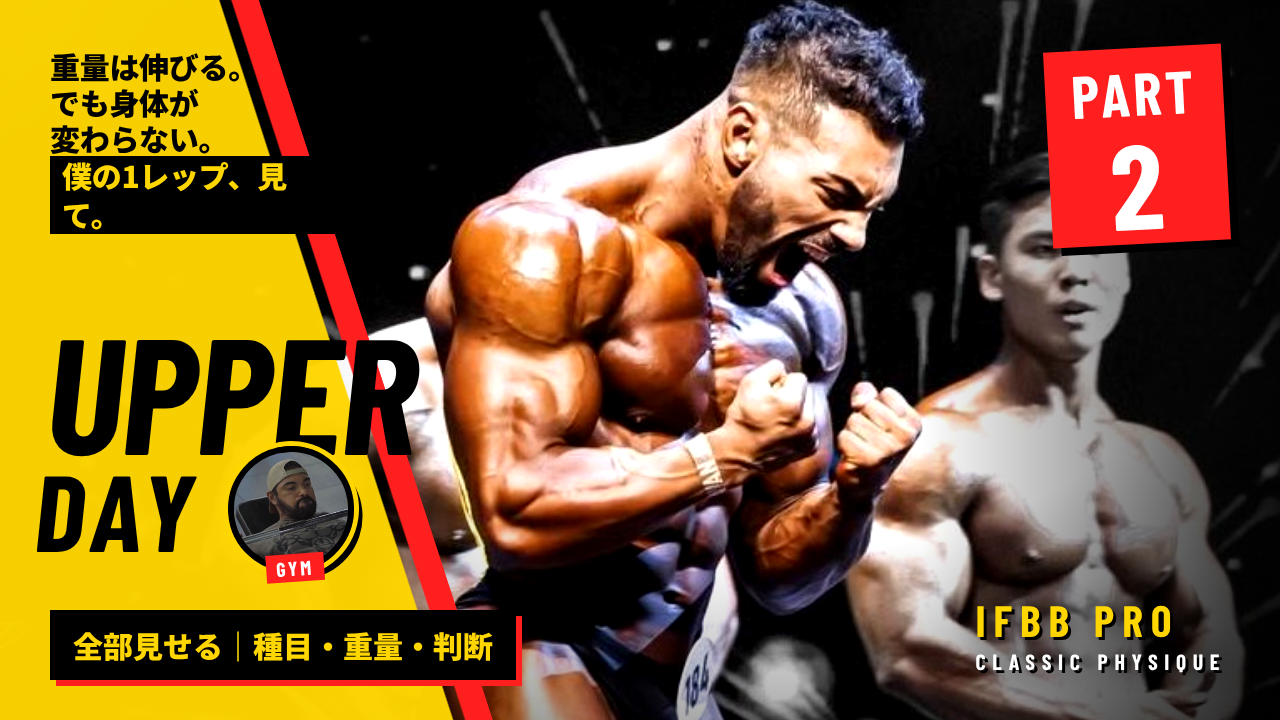
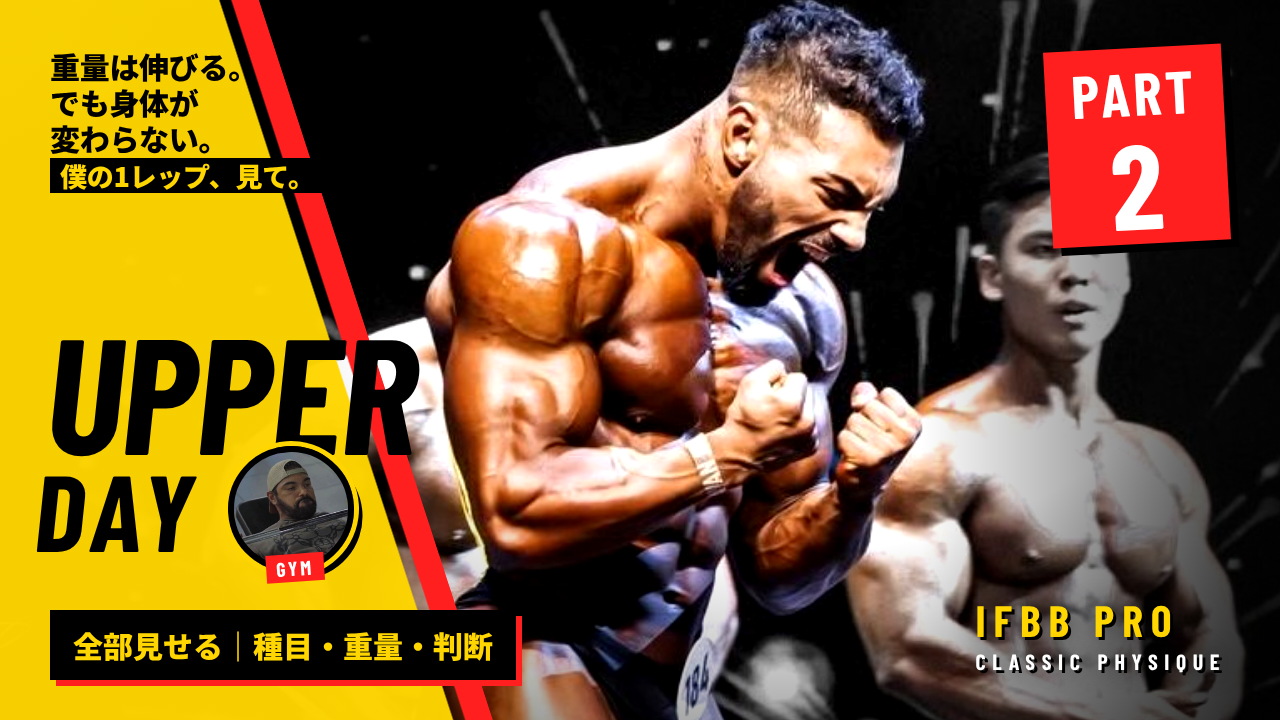
UPPER DAY thumbnails: hook label on one line
Claude-Session: https://claude.ai/code/session_01HRty6kL8VRnpLHHHzSF3iS

Changed region(s): [[0.0312, 0.2139, 0.2812, 0.3361]]

diff --git a/assets/yt/thumb-template.html b/assets/yt/thumb-template.html
@@ -10,8 +10,8 @@ body{font-family:"NS",sans-serif;color:#fff;position:relative}
 .vig{position:absolute;inset:0;background:radial-gradient(80% 80% at 60% 45%,rgba(0,0,0,0) 40%,rgba(0,0,0,.7) 100%)}
 .stripe{position:absolute;left:-60px;top:0;width:620px;height:720px;background:linear-gradient(72deg,rgba(255,214,0,.97) 0 60%,rgba(255,214,0,0) 60.2%);}
 .stripe2{position:absolute;left:-60px;top:0;width:640px;height:720px;background:linear-gradient(72deg,transparent 0 60%,#ff1f1f 60.2% 63.2%,transparent 63.3%)}
-.k{position:absolute;left:50px;top:48px;font-size:30px;font-weight:900;line-height:1.2;color:#000;letter-spacing:-.01em;width:300px}
-.k em{font-style:normal;background:#000;color:#ffd600;padding:0 12px;display:inline-block;line-height:1.3}
+.k{position:absolute;left:50px;top:48px;font-size:30px;font-weight:900;line-height:1.2;color:#000;letter-spacing:-.01em;width:360px}
+.k em{font-style:normal;background:#000;color:#ffd600;padding:0 10px;display:inline-block;line-height:1.3;white-space:nowrap;font-size:27px}
 .h{position:absolute;left:44px;top:318px;font-family:"BC",sans-serif;font-size:164px;font-weight:700;line-height:.88;letter-spacing:-.01em;color:#000;transform:skew(-6deg)}
 .h span{display:block;font-size:108px;letter-spacing:.06em}
 .part{position:absolute;right:54px;top:48px;background:#ff1f1f;color:#fff;font-family:"BC",sans-serif;font-size:60px;font-weight:700;letter-spacing:.06em;padding:8px 26px;transform:rotate(-3deg);box-shadow:8px 8px 0 #000}
